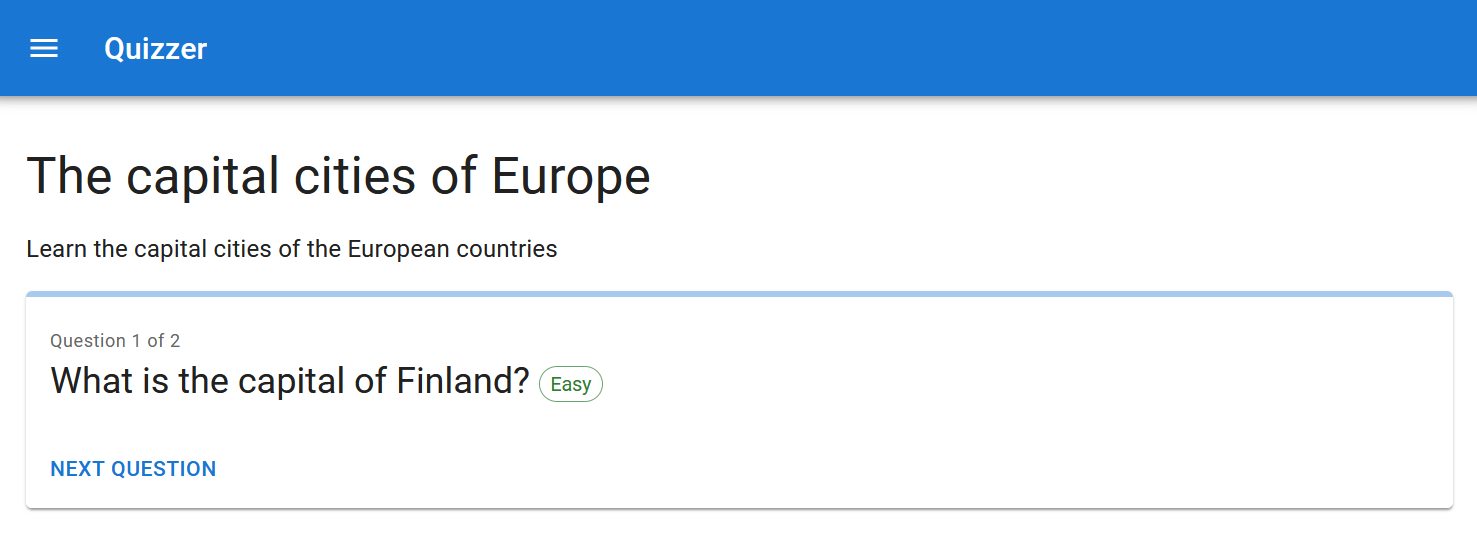
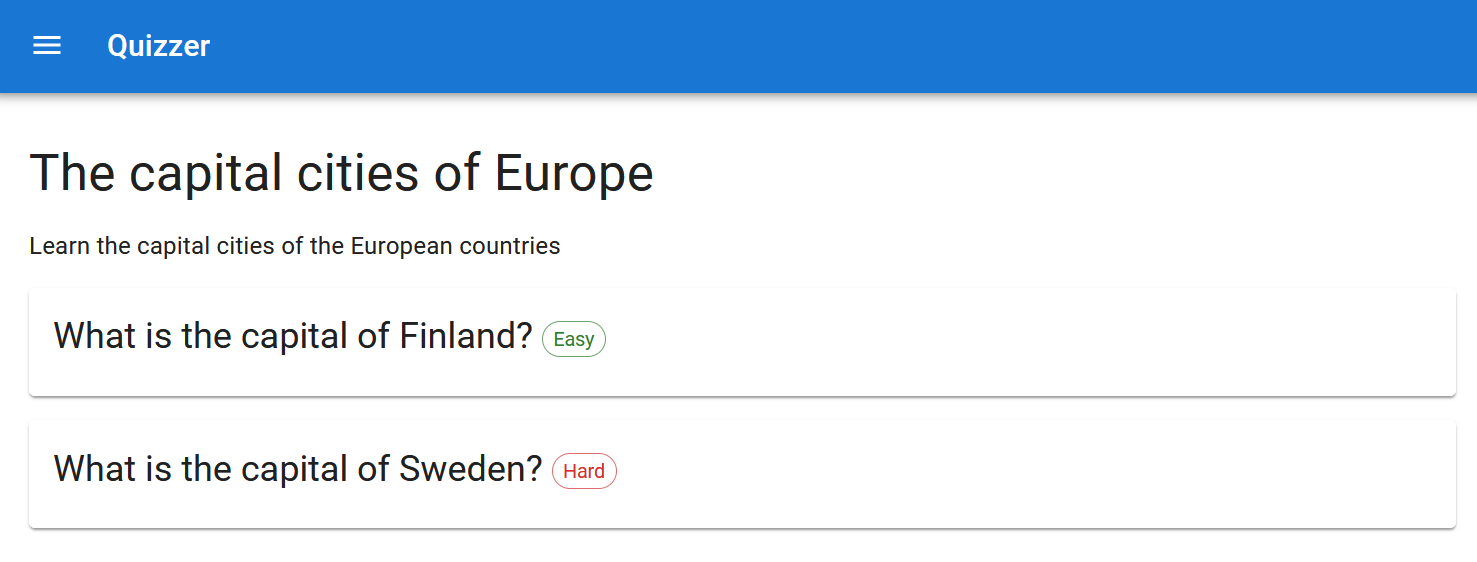
user story previews

diff --git a/material/sprint-2.md b/material/sprint-2.md
@@ -737,13 +737,9 @@ Before starting to implement the frontend features, we should test that the endp
 >
 > ![](/assets/sprint-2-user-story-6-2.png)
 >
-> ![](/assets/sprint-2-user-story-6-3.png)
->
-> ![](/assets/sprint-2-user-story-6-4.png)
->
 > Tips for implementing the tasks:
 >
-> - Material UI [Card](https://mui.com/material-ui/react-card/), [Chip](https://mui.com/material-ui/react-chip/) and [LinearProgress](https://mui.com/material-ui/react-progress/)
+> - Material UI [Card](https://mui.com/material-ui/react-card/) and [Chip](https://mui.com/material-ui/react-chip/)
 
 {: .important-title }
 
@@ -756,8 +752,6 @@ Before starting to implement the frontend features, we should test that the endp
 > ![](/assets/sprint-2-user-story-7-1.png)
 >
 > ![](/assets/sprint-2-user-story-7-2.png)
->
-> ![](/assets/sprint-2-user-story-7-3.png)
 >
 > Tips for implementing the tasks:
 >
